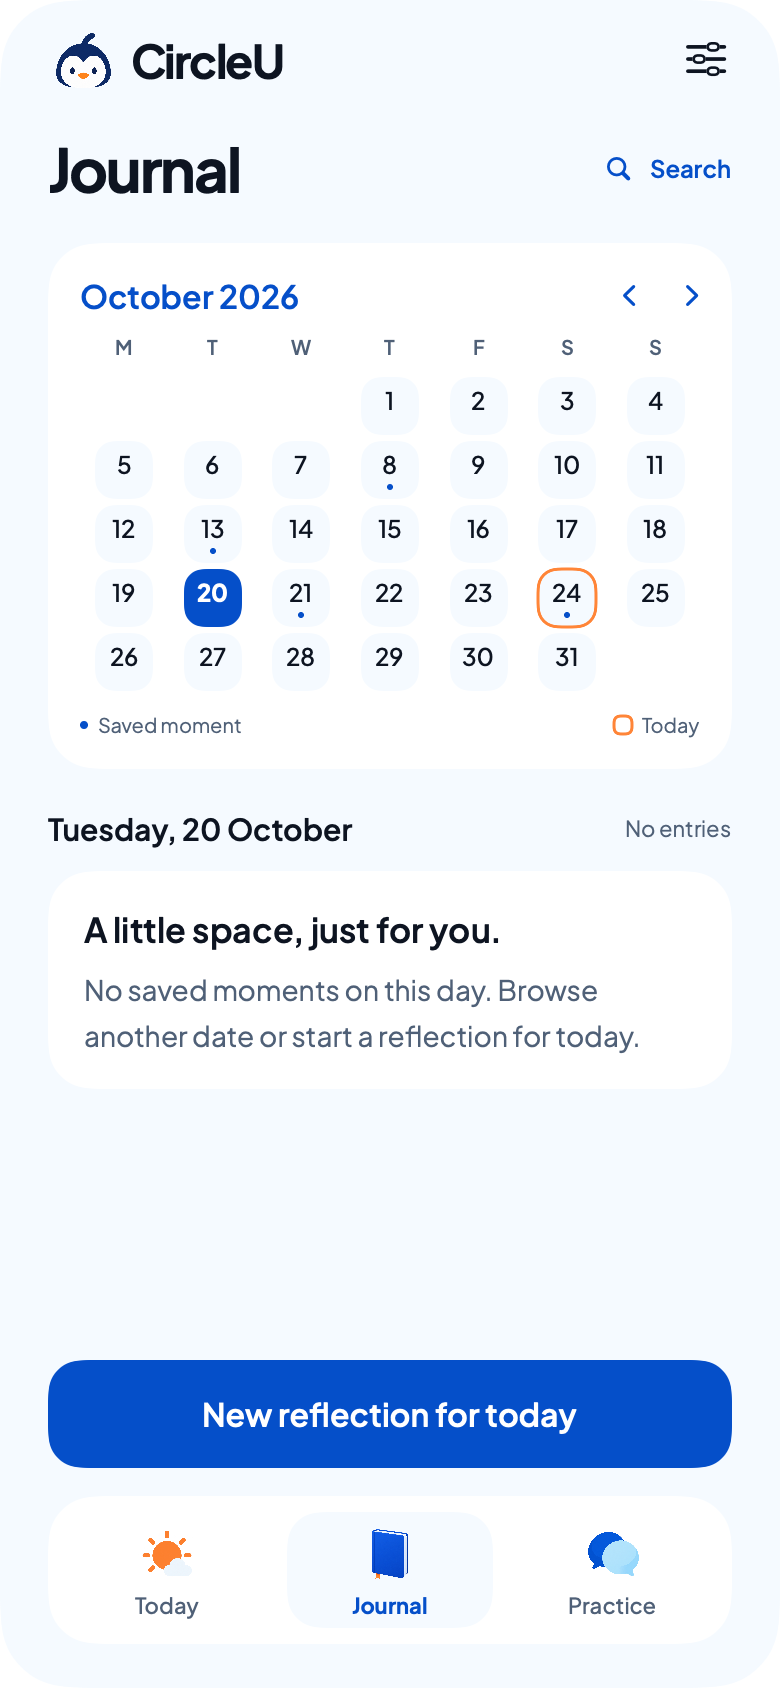
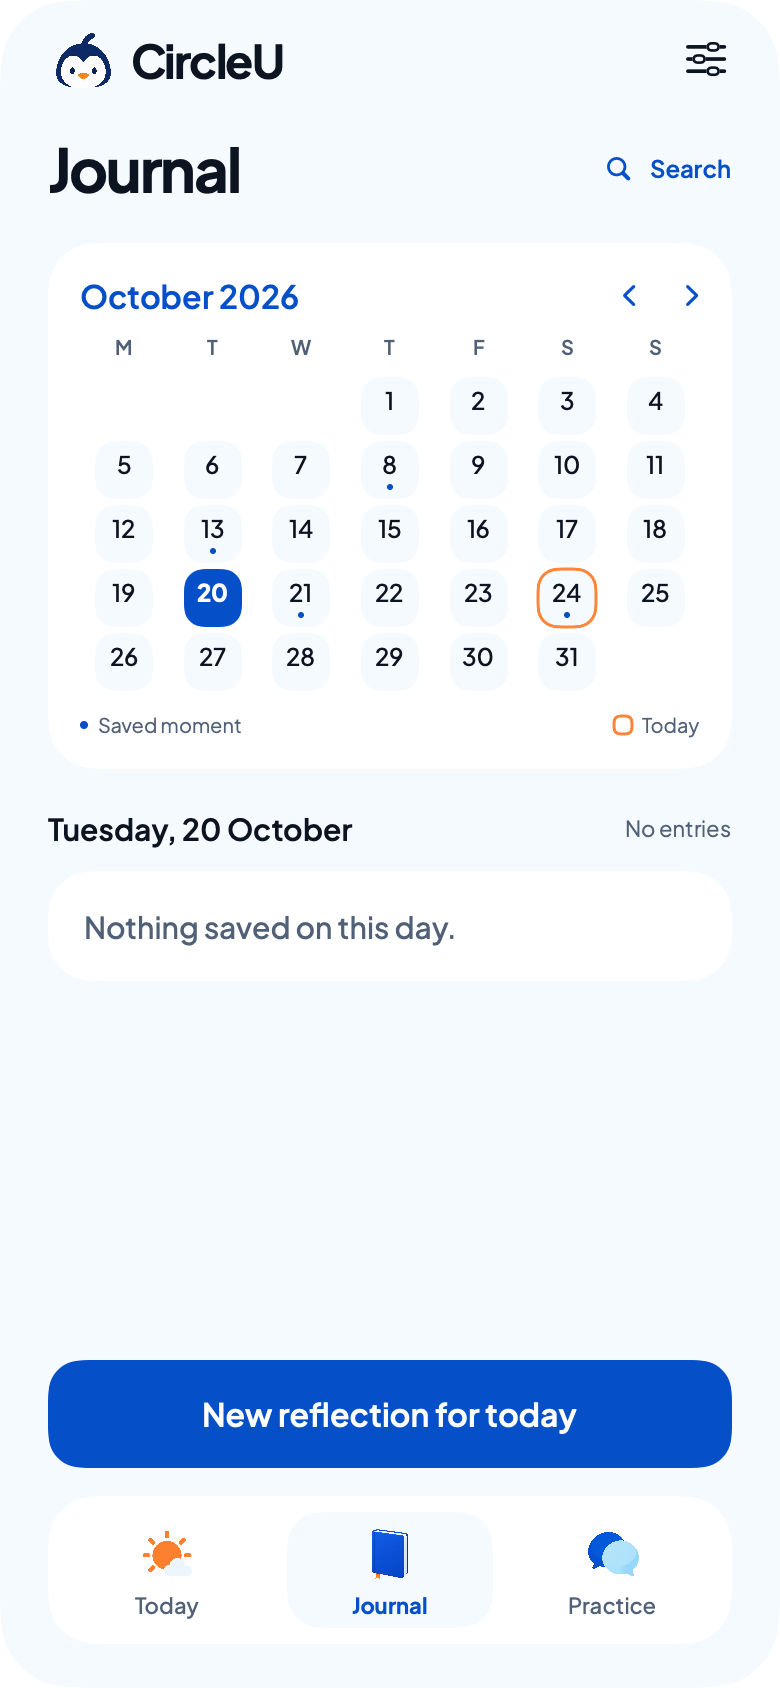
feat(prototype): apply Today walkthrough task 4 decisions
Owner decisions: the empty day reads only "Nothing saved on this day.";
writing from the calendar stays today-only; search covers all entries
and returns to the selected day (recorded for the real app).

Changed region(s): [[0.0923, 0.5237, 0.7692, 0.6161]]

diff --git a/Prototypes/CircleUVisualPrototype/Sources/CircleUVisualPrototype/JournalCalendarPreview.swift b/Prototypes/CircleUVisualPrototype/Sources/CircleUVisualPrototype/JournalCalendarPreview.swift
@@ -45,10 +45,9 @@ public struct JournalCalendarPreview: View {
             .padding(.top, 20).padding(.bottom, 12)
 
             if emptyDay {
-                VStack(alignment: .leading, spacing: 10) {
-                    Text("A little space, just for you.").font(BrandDemoFont.font(17, .semibold))
-                    BrandFixture.detail("No saved moments on this day. Browse another date or start a reflection for today.", size: 14)
-                }
+                // Owner decision (walkthrough task 4): one plain line that can't read as lost data.
+                Text("Nothing saved on this day.").font(BrandDemoFont.font(15, .medium))
+                    .foregroundStyle(BrandDemoColor.muted)
                 .padding(18).frame(maxWidth: .infinity, alignment: .leading)
                 .background(.white, in: RoundedRectangle(cornerRadius: 22))
             } else if day == .multiple {

diff --git a/docs/design/prototype-review-results.md b/docs/design/prototype-review-results.md
@@ -11,7 +11,7 @@ Use [Demo 04](brand-demo/core-journeys.md) for appearance and the existing Figma
 | Keep original words without accepting advice | Owner walkthrough 25 Oct; main `812b1ca` boards on phone (CircleU Preview `--board`) | Owner accepted all recommendation cards: start from Work through a moment; Save only my words found on Write and Suggestion screens | Moderated: recommendation cards, static boards | None reported | Low | Rename "Review a reflection" → "Get a suggestion"; Suggestion screen secondary → "Save without suggestion"; keep both full-width; reflection stays opt-in; draft card only when a draft exists (real app) | Prototype copy applied on `codex/today-task1-changes`; not retested |
 | Correct an interpretation, leave, return and find the intended version | Owner walkthrough 25 Oct; Suggestion → Edit reflection → Saved entry boards on phone | Owner accepted: original words shown locked on the edit screen; Journal shows the latest saved version at the top | Moderated: recommendation cards, static boards | None reported | Low | "Edit reflection" becomes a full-width outlined button under the suggestion; Back with unsaved edits asks "Keep editing / Discard" (real app; static prompt state added); remove "This updates the reflection only." | Prototype applied on `codex/today-task1-changes`; not retested |
 | Practice from a reflection, then create an independent message; distinguish Copy and Save | Owner walkthrough 25 Oct; Saved entry → Practice → Wording → Saved message boards | Owner kept Save and Copy as separate buttons and Copy as the main action on the saved message | Moderated: recommendation cards, static boards | None reported | Low | Linked vs standalone shown as a small icon tag ("From: <entry>" with link icon, "On its own" with speech bubble) instead of a grey line | Prototype applied on `codex/preview-assets-demo`; not retested |
-| Find another date's entry, inspect an empty day, then use Search / All entries | Not run | Not observed | Not observed | Not observed | Unassessed | None yet | Not run |
+| Find another date's entry, inspect an empty day, then use Search / All entries | Owner walkthrough 25 Oct; Journal calendar boards (21 Oct with 2 entries, empty 20 Oct) | Owner chose the recommended options for empty-day text, past-day writing and search | Moderated: recommendation cards, static boards; search and date filtering not testable here | None reported | Low | Empty day: "Nothing saved on this day."; writing from the calendar is today only ("New reflection for today"); search covers all entries and closing it returns to the selected day | Empty-day copy applied on `codex/preview-assets-demo`; search behaviour recorded for the real app |
 | Explain proposed storage/recovery and inspect linked-deletion choice/failure | Not run | Not observed | Not observed | Not observed | Unassessed | None yet | Not run |
 
 For operations missing from a specimen, record **not testable here**. A moderator switching images or preset Figma states is not unaided completion, and a static success label does not establish a completed save. Record privacy/deletion misunderstandings individually; do not turn five outcomes into market validation.
@@ -23,6 +23,7 @@ Owner decisions from the moderated walkthrough. The owner picked from Claude's r
 - **Task 1:** "Save only my words" stays a full-width secondary button the same size as the main action. The AI reflection is opt-in: after writing, the person chooses to get a suggestion or to save, and nothing appears automatically. The Suggestion screen offers "Save without suggestion". The Write button is renamed "Get a suggestion". Today shows "Continue your draft" only when a draft exists (real app; the static first-visit board may keep it).
 - **Task 2:** "Edit reflection" is a full-width outlined button under the suggestion. Leaving the editor with unsaved edits asks "Discard your changes?" with Keep editing / Discard: a requirement for the real app, shown here as a static `edit-reflection-leave` board. "This updates the reflection only." is removed. The locked original words on the edit screen and the latest saved version at the top of Journal stay.
 - **Task 3:** linked vs standalone practice is a small icon tag ("From: The group deadline" with a link icon, "On its own" with a speech bubble). Save and Copy stay separate, and Copy stays the main action on a saved message.
+- **Task 4:** the empty day reads only "Nothing saved on this day." Writing from the calendar is today only for now. Search covers all entries regardless of the selected day, and closing search returns to that day.
 - **Preview demo and assets (PR #7):** other email/password on Log in keep the recovery fixture flow (only the demo account opens the sample workspace); dark mode is deferred until the light screens are final; illustrations stay restrained (one per information or success screen, none on forms or editors).
 - **Screens (during task 1):** remove the "BRAND DEMO · STATIC SAMPLE" footer and the Sample/Draft corner tags from every preview screen; sample status stays in captions, file names and docs.
 
@@ -33,9 +34,9 @@ Design feedback received before a formal walkthrough: the owner found the core s
 | Proposal from the brief | Owner decision |
 | --- | --- |
 | Default to Today; dots/counts represent saved Journal content only | Pending specific review |
-| Search all Journal entries, temporarily suspend date filtering, restore selection on return | Pending specific review |
+| Search all Journal entries, temporarily suspend date filtering, restore selection on return | **Approved by owner, 25 October walkthrough** (task 4) |
 | All entries escape route; Today shortcut | Pending specific review |
-| Month arrows retain/clamp day number; future dates browsable without backdating new entries | Pending specific review |
+| Month arrows retain/clamp day number; future dates browsable without backdating new entries | No backdating approved (writing from the calendar is today only, task 4); month-arrow behaviour still pending |
 | Locale/week-start/time-zone policy and production hit targets | Pending implementation/design review |
 
 The owner approved creating the visual examples and removed the extra calendar-header icon. That does not establish tested calendar interaction or participant agreement.
